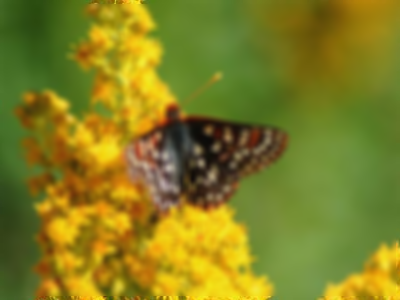
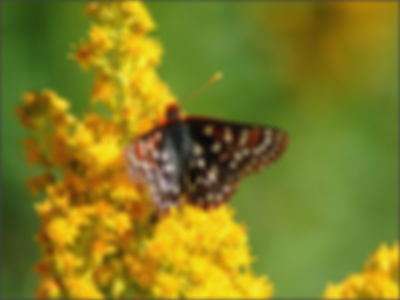
some gray thing fix for gauss blur

diff --git a/ImageDisplay_Java/ImageDisplay.java b/ImageDisplay_Java/ImageDisplay.java
@@ -98,9 +98,9 @@ public class ImageDisplay {
 		// 	System.out.println();
 		// }
 
-		for (int i = R; i < height-R; i++) {
+		for (int i = 0; i < height; i++) {
 			// System.err.println("herey" + i);
-			for (int j = R; j < width-R; j++) {
+			for (int j = 0; j < width; j++) {
 				// System.err.println("here" + j);
 				double r_s = 0;
 				double g_s = 0;
@@ -111,7 +111,12 @@ public class ImageDisplay {
 				for (int k = i-R; k <= i+R; k++) {
 					int x = 0;
 					for (int l = j-R; l <= j+R; l++) {
-						int color = imgIn.getRGB(l, k);
+						// int color = 0xff404040;
+						// if(l >= 0 && l < width && k >=0 && k < height){
+						// 	color = imgIn.getRGB(l, k);
+						// }
+						int color = color = imgIn.getRGB(l, k);
+						
 						double weight = m[x][y];
 						// System.err.println(weight);
 
@@ -204,7 +209,9 @@ public class ImageDisplay {
 		//GaussBlur
 		double rho = 3;
 		
-		BufferedImage imgBlur = deepCopy(imgOne);
+		BufferedImage imgOneExtended = deepCopy(imgOne);
+
+		BufferedImage imgBlur = new BufferedImage(width, height, BufferedImage.TYPE_INT_RGB);
 		gaussBlur(width, height, (int)(3*rho), rho, imgOne, imgBlur);
 
 		// Use label to display the image
